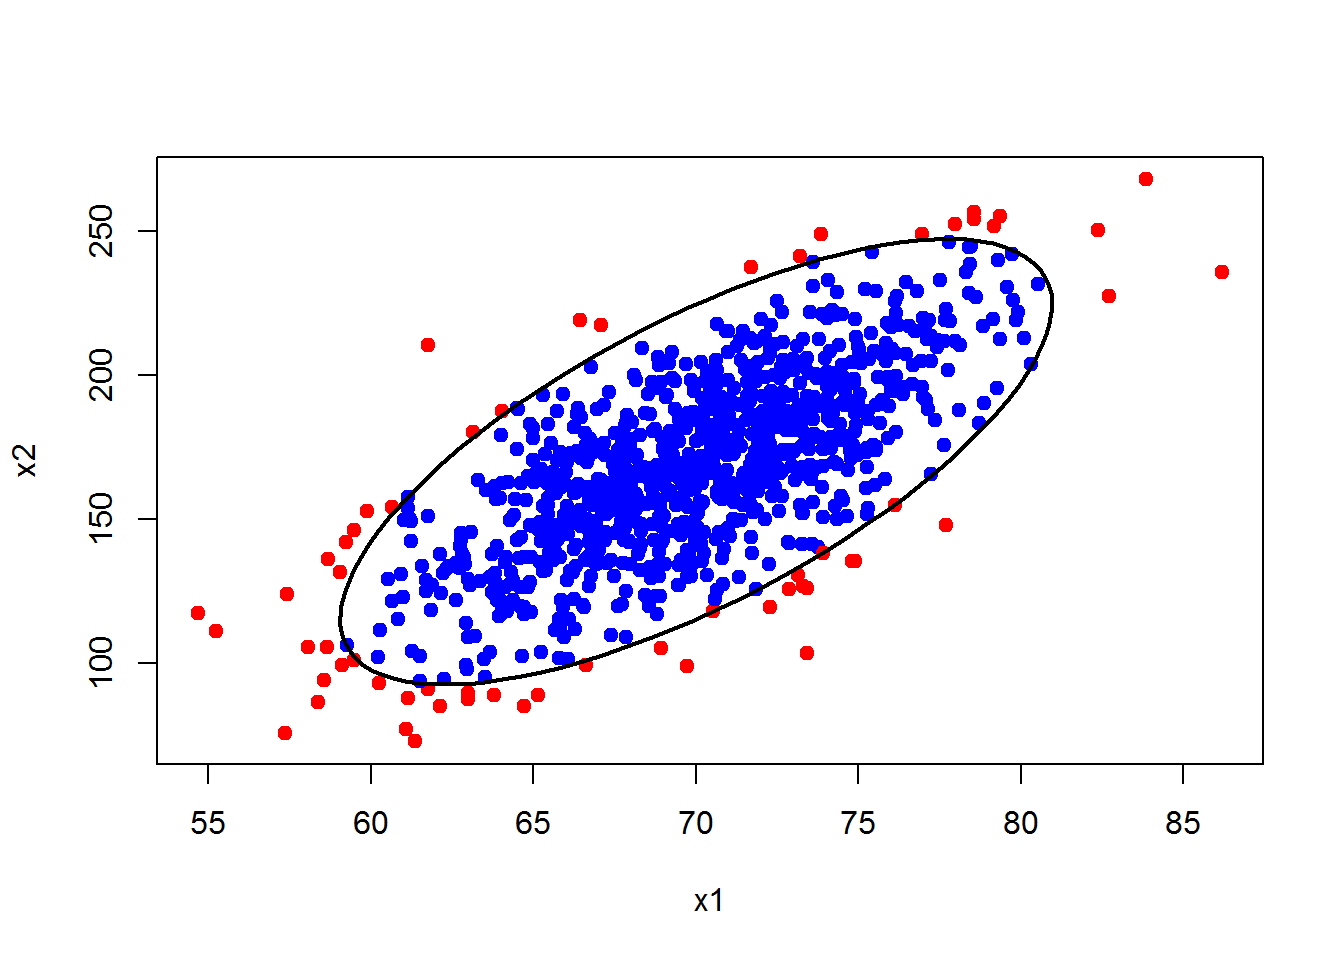
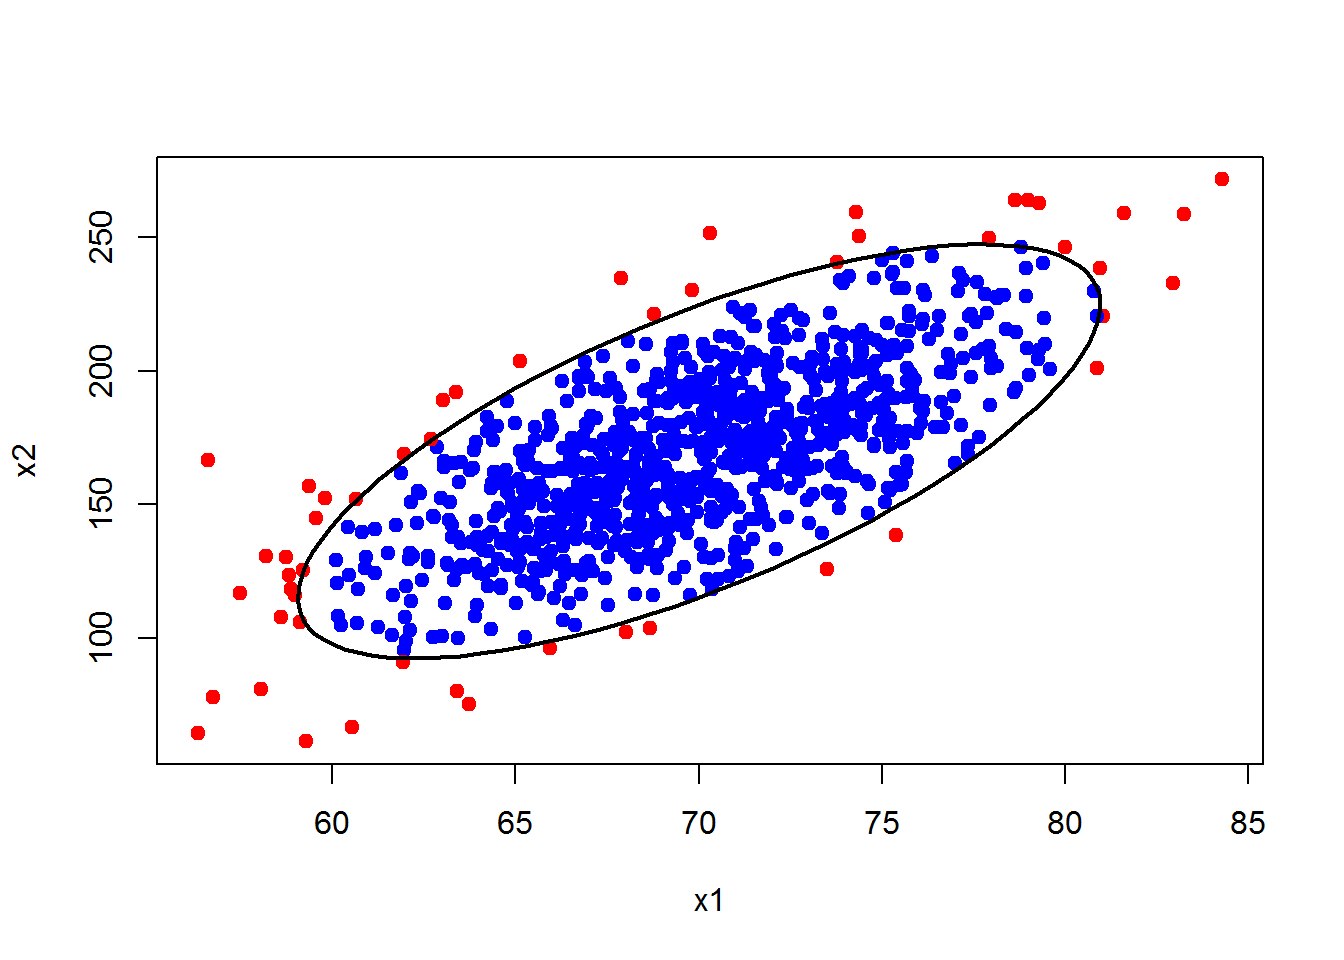
mejoras finales

diff --git a/Publicaciones/Multivariado/Elipse de confianza/Elipse_de_confianza.md b/Publicaciones/Multivariado/Elipse de confianza/Elipse_de_confianza.md
@@ -3,7 +3,6 @@
 
 <img src="https://raw.githubusercontent.com/fhernanb/fhernanb.github.io/master/imagenes/logounal.png" alt="logounal" width="200">
 
-
 <hr>
 
 ¿Cómo se construye una elipse de confianza para una normal bivariada?
@@ -56,12 +55,12 @@ require(MASS)
 dt <- mvrnorm(n=1000, mu=centro, Sigma)
 head(dt)  # para ver las primeras lineas
 ##          [,1]     [,2]
-## [1,] 76.46627 232.2837
-## [2,] 69.93279 160.3398
-## [3,] 71.72915 170.7323
-## [4,] 70.66563 158.8329
-## [5,] 71.28302 178.1621
-## [6,] 73.61656 184.6163
+## [1,] 71.55371 170.3362
+## [2,] 70.76903 155.6034
+## [3,] 68.77607 221.2328
+## [4,] 66.55037 174.9372
+## [5,] 70.78160 185.2613
+## [6,] 68.15984 130.2109
 ```
 
 Para crear el diagrama de dispersión y superponer la elipse usamos el siguiente código.
@@ -78,10 +77,10 @@ Para determinar el porcentaje de puntos que están dentro de la elipse podemos u
 ``` r
 d <- mahalanobis(x=dt, center=centro, cov=Sigma)
 mean(d <= qchisq(p=0.95, df=2))
-## [1] 0.94
+## [1] 0.949
 ```
 
-Vemos que 94% de los puntos están dentro lo cual es un valor muy cercano al valor nominal de la elipse de 95%.
+Vemos que 94.9% de los puntos están dentro lo cual es un valor muy cercano al valor nominal de la elipse de 95%.
 
 Por último vamos a dibujar los puntos que están por dentro de la elipse con color azul y los que están por fuera con color rojo.
 

diff --git a/Publicaciones/Multivariado/Elipse de confianza/header.md b/Publicaciones/Multivariado/Elipse de confianza/header.md
@@ -2,6 +2,5 @@
 
 <img src="https://raw.githubusercontent.com/fhernanb/fhernanb.github.io/master/imagenes/logounal.png" alt="logounal" width="200">
 
-
 <hr>
 
